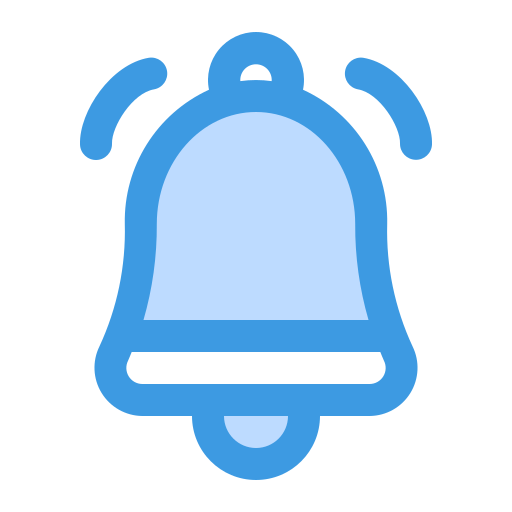
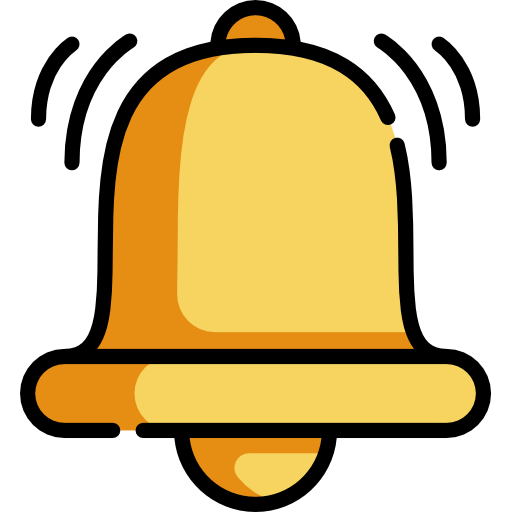
Cambios de colores e íconos

diff --git a/src/Estilos/FormCreator.css b/src/Estilos/FormCreator.css
@@ -3,7 +3,7 @@
   background: #fff;
   border-radius: 8px;
   box-shadow: 0 2px 6px rgba(0,0,0,0.08);
-  max-width: 1900px;
+  max-width: 3000px;
 }
 .formcreator-header-section {
   background: linear-gradient(90deg, #2563eb 0%, #1e40af 100%);
@@ -62,13 +62,13 @@
 }
 .q-text {
   padding: 14px 8px;
-  font-size: 16px;
+  font-size: 20px;
 }
 .formcreator-footer {
   margin-top: 16px;
 }
 
 .formcreator-questions h3 {
-  font-size: 18px;
+  font-size: 25px;
   margin-bottom: 12px;
 }

diff --git a/src/Estilos/Acompanamiento.css b/src/Estilos/Acompanamiento.css
@@ -6,7 +6,7 @@
     width: 70%; 
     max-width: 800px; 
     max-height: 100%;
-    background-color: #e2dbdb;
+    background-color: #ededf1;
     border-radius: 12px;
     box-shadow: 0 4px 10px rgba(0,0,0,0.1);
     color: #555;

diff --git a/src/Estilos/UserInfoBar.css b/src/Estilos/UserInfoBar.css
@@ -4,7 +4,7 @@
     align-items: center;
     justify-content: flex-end;
     padding: 10px 20px;
-    background-color: #d7d7da;
+    background-color: #ededf1;
     box-shadow: 0 1px 3px rgba(0,0,0,0.1);
 }
 

diff --git a/src/Estilos/Datoscontacto.css b/src/Estilos/Datoscontacto.css
@@ -11,7 +11,7 @@
   width: 80%;
   margin: 0 auto;
   padding: 40px;
-  background-color: #e2dbdb;
+  background-color: #ededf1;
   border-radius: 8px;
   align-items: center;
   justify-items: center; 

diff --git a/src/Estilos/StudentTable.css b/src/Estilos/StudentTable.css
@@ -20,7 +20,7 @@
     border-radius: 10px;
     box-shadow: 0 2px 8px rgba(0,0,0,0.08);
     width: 100%;
-    max-width: 1900px;
+    max-width: 3000px;
     overflow: hidden;
 }
 
